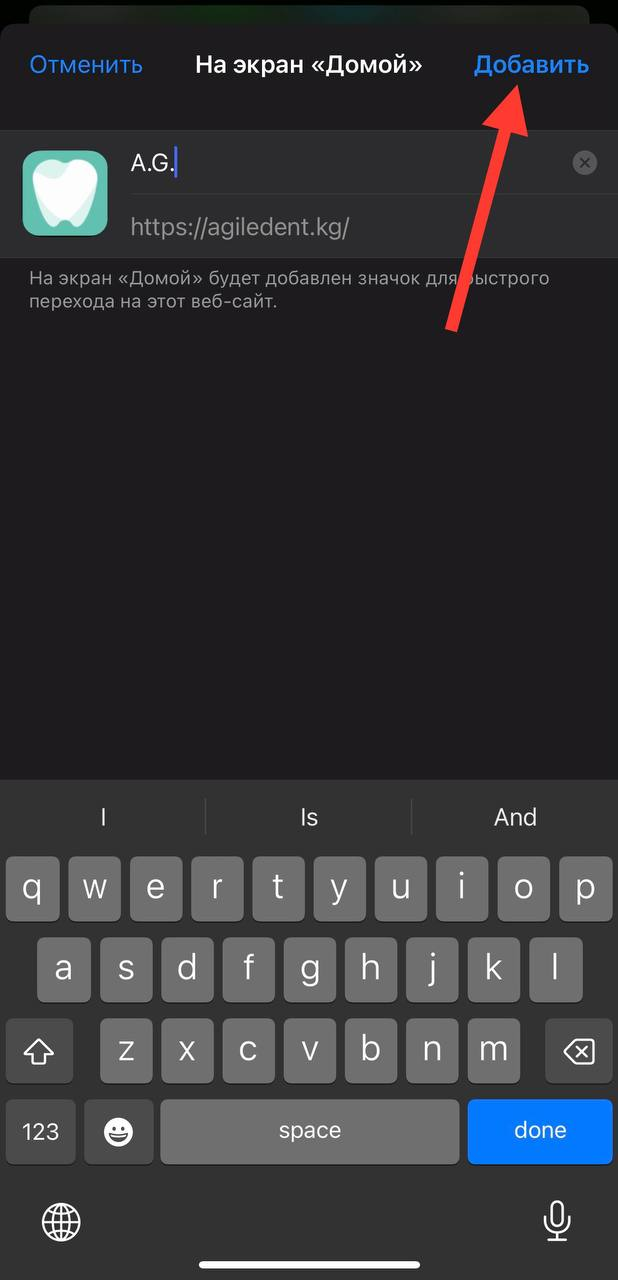
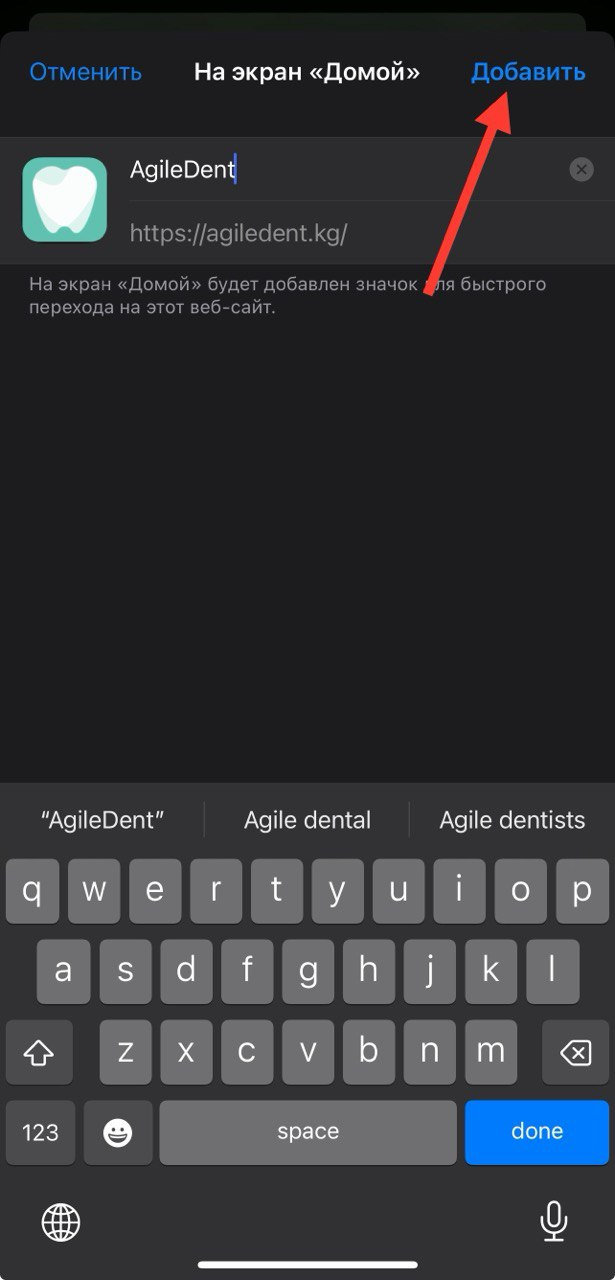
100%

diff --git a/index.html b/index.html
@@ -26,14 +26,13 @@
                         <div>
                             <p>Откройте сайт <a href="https://agiledent.kg/"
                                     target="_blank"
-                                    style="color: #fff; text-decoration: underline;">Agile
-                                    Dental</a> в браузере Safari</p>
+                                    style="color: #fff; text-decoration: underline;">Agiledent.kg</a> в браузере Safari</p>
                         </div>
                     </div>
                     <div class="step">
                         <div class="step-number">Шаг 2</div>
                         <div>
-                            <p>Нажмите значок "Поделиться" внизу окна</p>
+                            <p>Нажмите на значок "Поделиться" внизу окна</p>
                             <img src="./screenshot_1.jpg" alt="Скриншот 1"
                                 class="step-screenshot">
                         </div>
@@ -55,8 +54,7 @@
                     <div class="step">
                         <div class="step-number">Шаг 4</div>
                         <div>
-                            <p>Ссылка на сайт появится в телефоне рядом с
-                                приложениями</p>
+                            <p>AgileDent появится на вашем телефоне рядом с другими приложениями</p>
                         </div>
                     </div>
                 </div>
